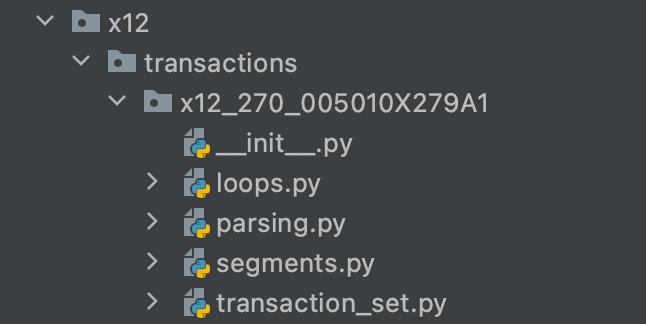
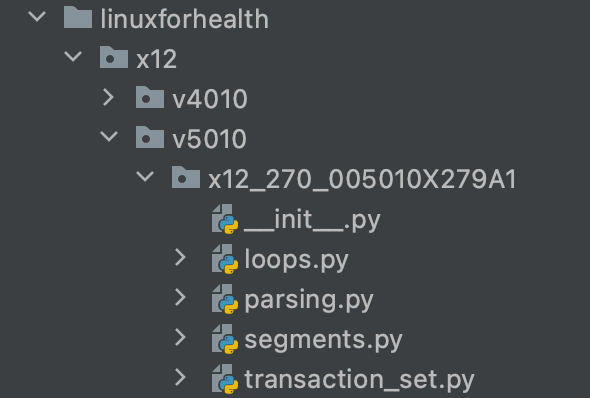
readme updated to reflect versioning packages (#99)

diff --git a/repo-docs/DESIGN.md b/repo-docs/DESIGN.md
@@ -120,15 +120,12 @@ ISA*03*9876543210*01*9876543210*30*000000005      *30*12345          *131031*114
 The LinuxForHealth x12 data models extend [pydantic](https://pydantic-docs.helpmanual.io/usage/models) 's BaseModel
 implementation. 
 
-The LinuxForHealth x12 data model aligns with the ASC X12 specification and includes:
+The LinuxForHealth x12 data model version aligns with X12 versioning. The [5010](./src/x12/v5010) version is current,
+with [4010](./src/x12/v4010) provided for historical use. Each version utilizes an identical module structure. Using the
+v5010 version as an example, models used include:
 
-* [Base models](./x12/models.py) in `x12.models` to support X12 segments and groupings (loops and transactions).
-* [Segment models](./x12/segments.py) include all X12 segments used by ASC X12 Health Care transactions.
-
-The segment models define the fields used within a segment, but not the allowable values for a field, or if a field is
-optional. These specifications are enforced at the "loop level" within a transaction. The LinuxForHealth x12 
-transaction models reside within the `x12.transactions` package. Transaction implementations follow a standard naming
-convention of `x12_[transaction code]_[implementation_version]`.
+* [Base models](./src/x12/v5010/models.py) define the transaction set and its loop structures.
+* [Segment models](./x12/v5010/segments.py) the base segments used within the transaction loops.
 
 The contents of a transaction package include:
 
@@ -145,53 +142,40 @@ X12Segment is the base model class for X12 segments. It includes a `x12` method 
 x12 string.
 
 ```python
-import abc
-from pydantic import BaseModel
-
-class X12Segment(abc.ABC, BaseModel):
-    """
-    X12BaseSegment serves as the abstract base class for all X12 segment models.
-    """
-
-    delimiters: X12Delimiters = X12Delimiters()
-    segment_name: X12SegmentName
-
-    class Config:
-        """
-        Default configuration for X12 Models
-        """
-
-        use_enum_values = True
-
     def x12(self) -> str:
         """
         :return: the X12 representation of the model instance
         """
+
         x12_values = []
         for k, v in self.dict(exclude={"delimiters"}).items():
-            # evaluate fields
-    
+            if isinstance(v, str):
+                x12_values.append(v)
+            elif isinstance(v, list):
+                x12_values.append(self._process_multivalue_field(k, v))
+            elif isinstance(v, datetime.datetime):
+                x12_values.append(v.strftime("%Y%m%d%H%M"))
+            elif isinstance(v, datetime.date):
+                x12_values.append(v.strftime("%Y%m%d"))
+            elif isinstance(v, datetime.time):
+                x12_values.append(v.strftime("%H%M"))
+            elif isinstance(v, Decimal):
+                x12_values.append("{:.2f}".format(v))
+            elif v is None:
+                x12_values.append("")
+            else:
+                x12_values.append(str(v))
+
         x12_str = self.delimiters.element_separator.join(x12_values).rstrip(
-        self.delimiters.element_separator
+            self.delimiters.element_separator
         )
         return x12_str + self.delimiters.segment_terminator
-
-
 ```
 
 The X12SegmentGroup model is the base model used to model a X12 loop or transaction set. The X12SegmentGroup also includes
 a `x12` method which generates valid x12 from its contained segments.
 
 ```python
-import abc
-from pydantic import BaseModel
-from typing import List
-
-class X12SegmentGroup(abc.ABC, BaseModel):
-    """
-    Abstract base class for a model, typically a loop or transaction, which groups x12 segments.
-    """
-
     def x12(self, use_new_lines=True) -> str:
         """
         :return: Generates a X12 representation of the loop using its segments.
@@ -200,7 +184,22 @@ class X12SegmentGroup(abc.ABC, BaseModel):
         fields = [f for f in self.__fields__.values() if hasattr(f.type_, "x12")]
 
         for f in fields:
-            # process fields
+            field_instance = getattr(self, f.name)
+
+            if field_instance is None:
+                continue
+            elif isinstance(field_instance, list):
+                for item in field_instance:
+                    if isinstance(item, X12Segment):
+                        x12_segments.append(item.x12())
+                    else:
+                        x12_segments.append(item.x12(use_new_lines=use_new_lines))
+            else:
+                if isinstance(field_instance, X12Segment):
+                    x12_segments.append(field_instance.x12())
+                else:
+                    x12_segments.append(field_instance.x12(use_new_lines=use_new_lines))
+
         join_char: str = "\n" if use_new_lines else ""
         return join_char.join(x12_segments)
 ```
@@ -222,9 +221,6 @@ types.
 String field validations may enforce min and max field lengths and pattern conformance (regular expressions).
 
 ```python
-from x12.models import X12SegmentName, X12Segment
-from pydantic import Field
-
 class HlSegment(X12Segment):
     """
     Defines a hierarchical organization used to relate one grouping of segments to another
@@ -242,9 +238,6 @@ class HlSegment(X12Segment):
 Numeric field validations may enforce value ranges or utilize Pydantic constrained types such as `PositiveInt`.
 
 ```python
-from x12.models import X12SegmentName, X12Segment
-from pydantic import Field, PositiveInt
-
 class IeaSegment(X12Segment):
     """
     Defines the interchange footer and is an EDI control segment.
@@ -258,13 +251,10 @@ class IeaSegment(X12Segment):
 ```
 
 Code-table fields are expressed as string based enumerations within a X12Segment model. Code tables which are not specific
-to a given transaction set or loop are defined within the `x12.segments` module. Transaction-specific code tables are
-defined within the `x12.transactions.<transaction package>.segments` module as "overrides".
+to a given transaction set or loop are defined within the `x12.<version>.segments` module. Transaction-specific code tables are
+defined within the `x12.<version>.x12_<transaction code>_<version identifier>` module as "overrides".
 
 ```python
-from enum import Enum
-from x12.segments import RefSegment
-
 class Loop2100RefSegment(RefSegment):
     """
     Conveys additional Subscriber or Dependent identification data.
@@ -304,11 +294,6 @@ functions. The `@root_validator` provides access to all fields within the model,
 The following example, the `Nm1Segment`, utilizes both validator types.
 
 ```python
-from x12.models import X12Segment, X12SegmentName
-from enum import Enum
-from pydantic import Field, validator, root_validator
-from typing import Optional, Tuple
-
 class Nm1Segment(X12Segment):
     """
     Entity Name and Identification Number
@@ -378,17 +363,6 @@ The `x12.validators` module contains common validation functions which are not s
 validations are "wired" to the model using explicit syntax rather than decorator functions.
 
 ```python
-from x12.models import X12SegmentGroup
-from x12.transactions.x12_270_005010X279A1.loops import (Loop2100DNm1Segment,
-                                                         Loop2100RefSegment,
-                                                         Loop2100DInsSegment,
-                                                         Loop2100DtpSegment,
-                                                         Loop2110D)
-from x12.segments import N3Segment, N4Segment, PrvSegment, DmgSegment,HiSegment
-from x12.validators import validate_duplicate_ref_codes
-from typing import Optional, List
-from pydantic import Field, root_validator
-
 class Loop2100D(X12SegmentGroup):
     """
     Loop 2100D - Dependent Name

diff --git a/repo-docs/NEW_TRANSACTION.md b/repo-docs/NEW_TRANSACTION.md
@@ -5,7 +5,7 @@ the implementation within the `x12_270_005010X279A1` transaction set before addi
 
 ## Add Transaction Package
 
-Add a new transaction package to `x12.transactions` for the transaction set. The new transaction package name must
+Add a new transaction package to the appropriate top level version package such as `x12.v5010`. The new transaction package name must
 adhere to the following convention to support transaction discovery - `x12_[transaction set code]_[implementation version]`.
 
 Add the following modules to the new transaction package:
@@ -18,10 +18,10 @@ Add the following modules to the new transaction package:
 
 ## Add Segments
 
-Review the transaction specification and determine if all segments within the transaction set are supported within the
-`x12.segments` module. 
+Review the transaction specification and determine if all segments within the transaction set exist within the top level
+version module, `x12.v5010.segments`
 
-If a segment is missing from the `x12.segments` module, add a new entry to `x12.models.X12SegmentName`
+If a segment is missing from the `x12.v5010.segments` module, add a new entry to `x12.models.X12SegmentName`
 
 ```python
 from enum import Enum
@@ -68,7 +68,7 @@ class GeSegment(X12Segment):
 
 ```
 
-Next, add specialized segment models to `x12.transactoins.[new transaction package].segments.py`as necessary.
+Next, add specialized segment models to `x12.v5010.[new transaction package].segments.py`as necessary.
 Each specialized model must extend its base segment model counterpart.
 
 In the example below `Loop2000AHlSegment` extends `HlSegment` with overrides appropriate for the Eligibility (270)
@@ -82,7 +82,7 @@ The `Loop2000AHlSegment` provides the following:
 * The class overrides `hierarchical_parent_id_number` to set it as `Optional` since it is not required in the 2000A loop.
 
 ```python
-from x12.segments import HlSegment
+from x12.v5010.segments import HlSegment
 from enum import Enum
 from typing import Literal, Optional
 
